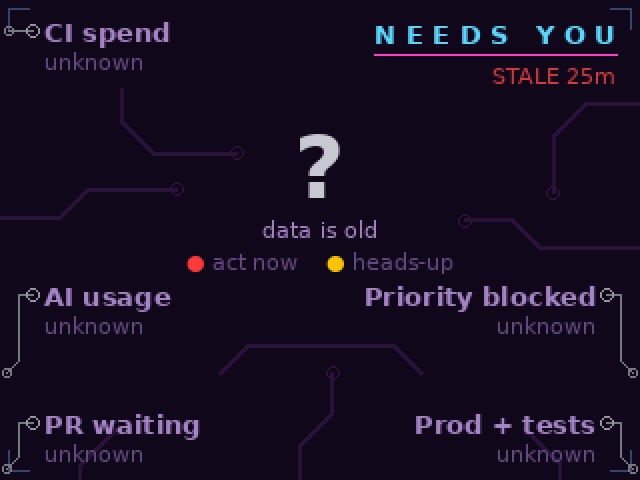
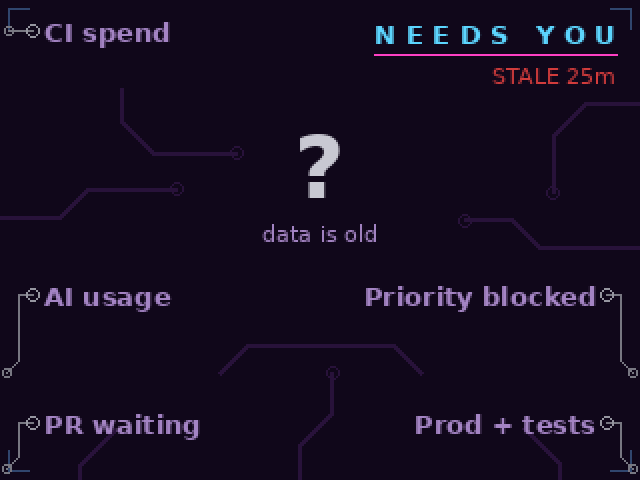
Report: nothing under a clear signal, no legend (#60)
Claude-Session: https://claude.ai/code/session_01FMZi7rZF126zrCB2vwNpQ9

diff --git a/host/dc32host/attention.py b/host/dc32host/attention.py
@@ -245,14 +245,7 @@ def render(state, slots_map=None, now=None):
     bc = (200, 200, 210) if stale else (LEVEL_SCREEN.get(worst, LIT) if n_lit else TH_CYAN)
     d.text(((C.OUT_W - bw) / 2, 58), big, font=f_big, fill=bc)
     sub = "data is old" if stale else ("need you" if n_lit > 1 else "needs you" if n_lit == 1 else "all clear")
-    d.text(((C.OUT_W - d.textlength(sub, font=f_s)) / 2, 108), sub, font=f_s, fill=TH_VIOLET)
-    # legend: what the two colours mean
-    parts = [("●", LEVEL_SCREEN["red"]), (" act now    ", TH_DIM), ("●", LEVEL_SCREEN["yellow"]), (" heads-up", TH_DIM)]
-    lw = sum(d.textlength(t, font=f_s) for t, _ in parts)
-    lx = (C.OUT_W - lw) / 2
-    for t, c in parts:
-        d.text((lx, 124), t, font=f_s, fill=c)
-        lx += d.textlength(t, font=f_s)
+    d.text(((C.OUT_W - d.textlength(sub, font=f_s)) / 2, 110), sub, font=f_s, fill=TH_VIOLET)
     colw = 150
     for s, ind in by_slot.items():
         side, row = s.split("_")
@@ -275,7 +268,7 @@ def render(state, slots_map=None, now=None):
         if lit:
             line2, c2 = _fit(d, ind.get("reason") or "", f_s, colw), col
         else:
-            line2, c2 = ("clear" if not stale else "unknown"), TH_DIM
+            line2, c2 = "", TH_DIM                  # nothing under a clear signal
         # left column reads from its LED inward; the right column is right-aligned against its LED
         if side == "left":
             x0 = 22
